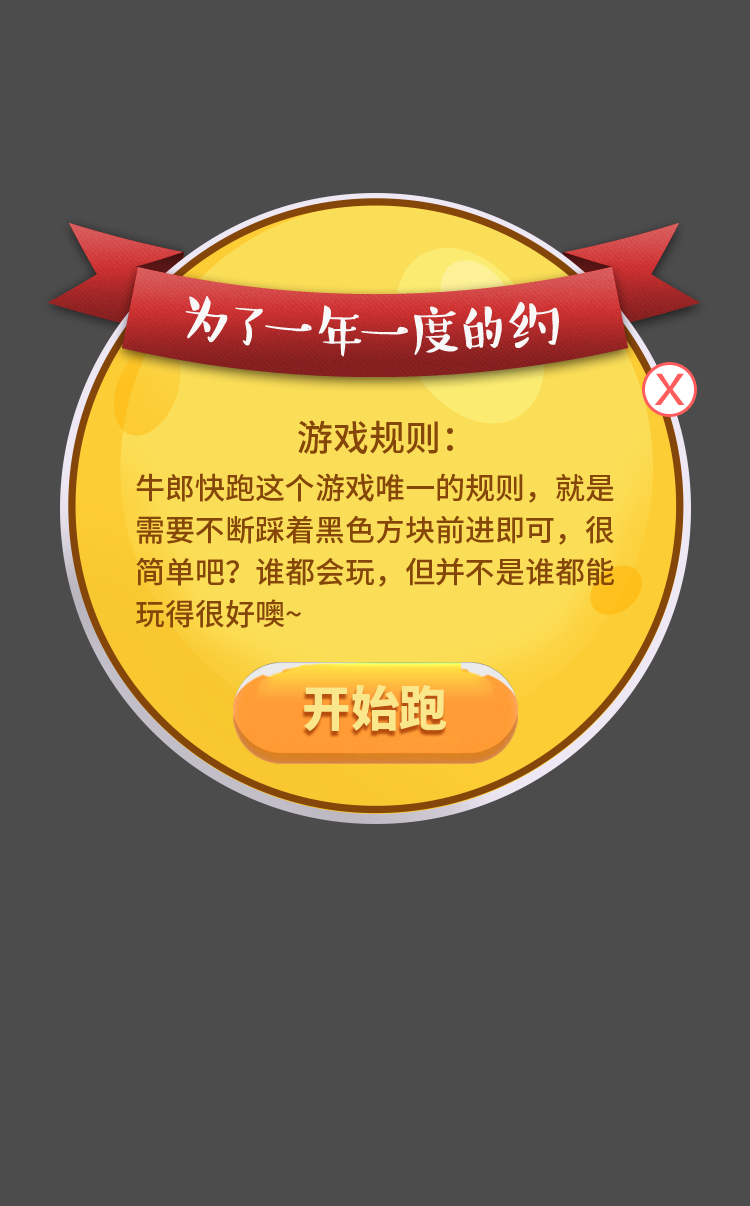
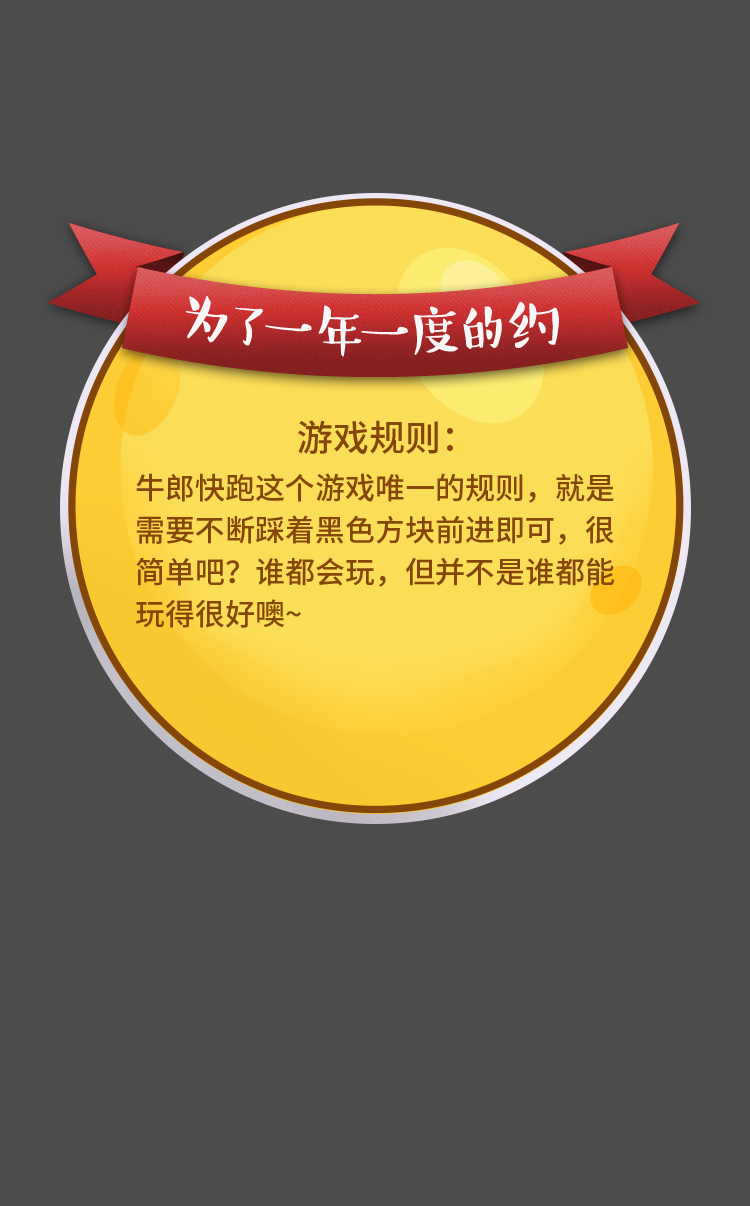
增加开始弹出提示框

Changed region(s): [[0.3067, 0.5216, 0.7053, 0.6443], [0.8587, 0.2761, 0.9507, 0.3682]]

diff --git a/src/maskLayer.js b/src/maskLayer.js
@@ -1,0 +1,100 @@
+var MaskLayer = cc.Layer.extend({
+  _popSprite: null,
+  _startRunSprite: null,
+  _closeSprite: null,
+
+  ctor:function(){
+    this._super();
+    var size = cc.winSize;
+
+    this._popSprite = new cc.Sprite(res.pop_png);
+    this._popSprite.attr({
+      x: size.width / 2,
+      y: size.height / 2,
+    });
+    this.addChild(this._popSprite);
+
+    this._startRunSprite = new cc.Sprite(res.start_run_png);
+    this._startRunSprite.attr({
+      x: size.width / 2,
+      y: 500,
+    });
+    this.addChild(this._startRunSprite);
+
+    this._closeSprite = new cc.Sprite(res.close_png);
+    this._closeSprite.attr({
+      x: 670,
+      y: 820,
+    });
+    this.addChild(this._closeSprite);
+
+    var listener = cc.EventListener.create({
+      event: cc.EventListener.TOUCH_ONE_BY_ONE,
+      swallowtouches: true,
+      onTouchBegan: function(touch, event){
+        var target = event.getCurrentTarget();
+        var locationInNode = target.convertToNodeSpace(touch.getLocation());
+        var size = target.getContentSize();
+        var rect = cc.rect(0, 0, size.width, size.height);
+        if (!cc.rectContainsPoint(rect, locationInNode)) {
+          return false;
+        }
+        cc.log('click ');
+        
+        return true;
+      },
+      onTouchEnded: function(touch, event) {
+        var target = event.getCurrentTarget();
+        target.parent.removeFromParent();
+      }
+    });
+    var listener1 = cc.EventListener.create({
+      event: cc.EventListener.TOUCH_ONE_BY_ONE,
+      swallowtouches: true,
+      onTouchBegan: function(touch, event){
+        var target = event.getCurrentTarget();
+        var locationInNode = target.convertToNodeSpace(touch.getLocation());
+        var size = target.getContentSize();
+        var rect = cc.rect(0, 0, size.width, size.height);
+        if (!cc.rectContainsPoint(rect, locationInNode)) {
+          return false;
+        }
+        cc.log('click ');
+        
+        return true;
+      },
+      onTouchEnded: function(touch, event) {
+        var target = event.getCurrentTarget();
+        target.parent.removeFromParent();
+      }
+    });
+    cc.eventManager.addListener(listener, this._startRunSprite);
+    cc.eventManager.addListener(listener1, this._closeSprite);
+
+
+
+
+    var touchListener = cc.EventListener.create({
+      event: cc.EventListener.TOUCH_ONE_BY_ONE,
+      swallowTouches: true,
+      onTouchBegan: this.onTouchBegan,
+      onTouchEnded: this.onTouchEnded
+    });
+    cc.eventManager.addListener(touchListener, this);
+
+  },
+  onTouchBegan:function(touch, event) {
+    var target = event.getCurrentTarget();
+    var locationInNode = target.convertToNodeSpace(touch.getLocation());
+    var size = target.getContentSize();
+    var rect = cc.rect(0, 0, size.width, size.height);
+    if (!cc.rectContainsPoint(rect, locationInNode)) {
+      return false;
+    }
+    return true;
+  },
+  onTouchEnded: function(touch, event) {
+    //var target = event.getCurrentTarget();
+    //target.removeFromParent();
+  }
+});

diff --git a/src/playScene.js b/src/playScene.js
@@ -17,46 +17,22 @@ var PlayLayer = cc.Layer.extend({
 
   _bannerSprite: null,
   _startTileSprite: null,
-  _popSprite: null,
-  ctor: function() {
+
+  _isFirstTime: true,
+  ctor: function(isFirstTime) {
     this._super();
-    this.loadInit();
+    this._isFirstTime = isFirstTime;
+    this.loadInit(this._isFirstTime);
+    this.addNextLineListener();
     return true;
   },
-  loadInit: function() {
+  loadInit: function(isFirstTime) {
     var size = cc.winSize;
-
-    // 弹框图
-    this._popSprite = new cc.Sprite(res.pop_png);
-    this._popSprite.attr({
-      x: size.width / 2,
-      y: size.height / 2,
-    });
-    this.addChild(this._popSprite, 100);
-
-    var listener = cc.EventListener.create({
-      event: cc.EventListener.TOUCH_ONE_BY_ONE,
-      swallowtouches: true,
-      onTouchBegan: function(touch, event){
-        var target = event.getCurrentTarget();
-        var locationInNode = target.convertToNodeSpace(touch.getLocation());
-        var size = target.getContentSize();
-        var rect = cc.rect(0, 0, size.width, size.height);
-        if (!cc.rectContainsPoint(rect, locationInNode)) {
-          return false;
-        }
-        cc.log('click ');
-        
-        return true;
-      },
-      onTouchEnded: function(touch, event) {
-        var target = event.getCurrentTarget();
-        target.parent.addNextLineListener();
-        target.removeFromParent();
-      }
-    });
-    cc.eventManager.addListener(listener, this._popSprite);
-
+    if(isFirstTime){
+      var maskLayer = new MaskLayer();
+      this.addChild(maskLayer, 100);
+    }
+    
     // banner图
     this._bannerSprite = new cc.Sprite(res.banner_png);
     this._bannerSprite.attr({
@@ -239,9 +215,14 @@ var PlayLayer = cc.Layer.extend({
 });
 
 var PlayScene = cc.Scene.extend({
+  _isFirstTime: true,
+  ctor: function(isFirstTime){
+    this._super();
+    this._isFirstTime = isFirstTime;
+  },
   onEnter: function() {
     this._super();
-    var layer = new PlayLayer();
+    var layer = new PlayLayer(this._isFirstTime);
     this.addChild(layer);
   }
 });

diff --git a/src/startScene.js b/src/startScene.js
@@ -59,7 +59,7 @@ var StartLayer = cc.Layer.extend({
           return false;
         }
         cc.log('click ');
-        cc.director.runScene(new PlayScene());
+        cc.director.runScene(new PlayScene(true));
         return true;
       }
     });
@@ -67,8 +67,8 @@ var StartLayer = cc.Layer.extend({
   
     var rightAction = cc.moveBy(0.5, cc.p(20, 0));
     var leftAction = cc.moveBy(0.5, cc.p(-20, 0));
-    rightAction.easing(cc.easeIn(2.0));
-    leftAction.easing(cc.easeIn(2.0));
+    //rightAction.easing(cc.easeIn(2.0));
+    //leftAction.easing(cc.easeIn(2.0));
     var moveAction = cc.sequence(rightAction, leftAction);
     var rep = new cc.RepeatForever(moveAction);
     this._startBtnSprite.runAction(rep);

diff --git a/src/gameoverScene.js b/src/gameoverScene.js
@@ -17,7 +17,7 @@ var GameoverLayer = cc.Layer.extend({
     // 菜单
     var againLabel = new cc.LabelTTF('再玩一次', 'Arial', 48);
     var againMenuItem = new cc.MenuItemLabel(againLabel, function(){
-        var scene = new PlayScene();
+        var scene = new PlayScene(false);
         cc.director.runScene(scene);
     }, this);
 

diff --git a/src/resource.js b/src/resource.js
@@ -5,7 +5,9 @@ var res = {
   start_btn_png : 'res/start-btn.png',
   banner_png : 'res/banner.png',
   start_tile_png : 'res/start-tile.png',
-  pop_png : 'res/pop.png'
+  pop_png : 'res/pop.png',
+  start_run_png : 'res/start-run.png',
+  close_png : 'res/close.png'
 };
 
 var g_resources = [];

diff --git a/main.js b/main.js
@@ -53,7 +53,7 @@ cc.game.onStart = function(){
   cc.view.resizeWithBrowserSize(true);
   //load resources
   cc.LoaderScene.preload(g_resources, function () {
-    cc.director.runScene(new PlayScene());
+    cc.director.runScene(new StartScene());
   }, this);
 };
 cc.game.run();
